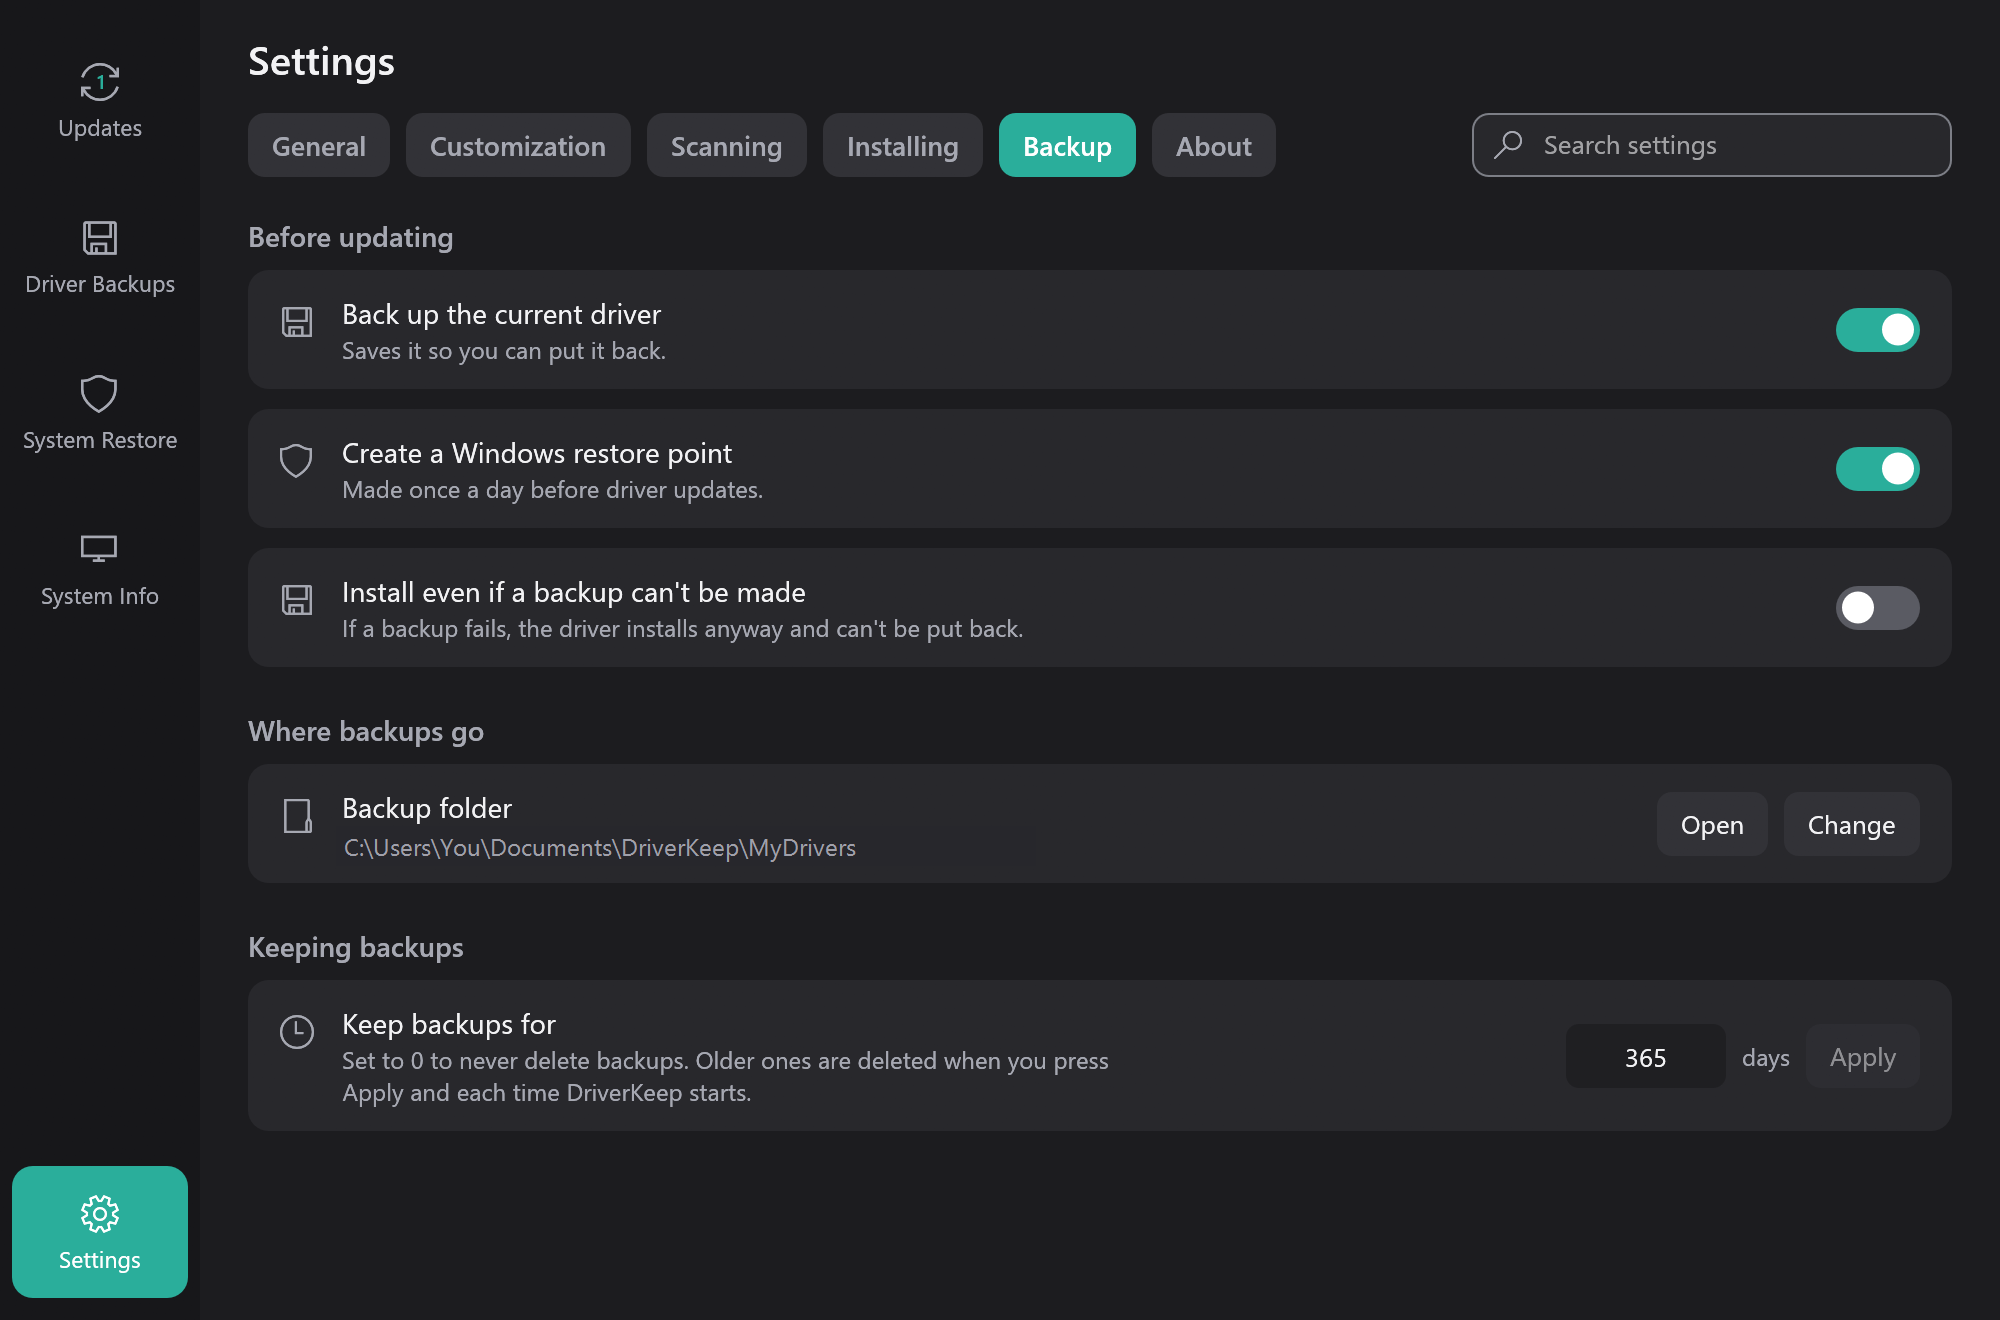
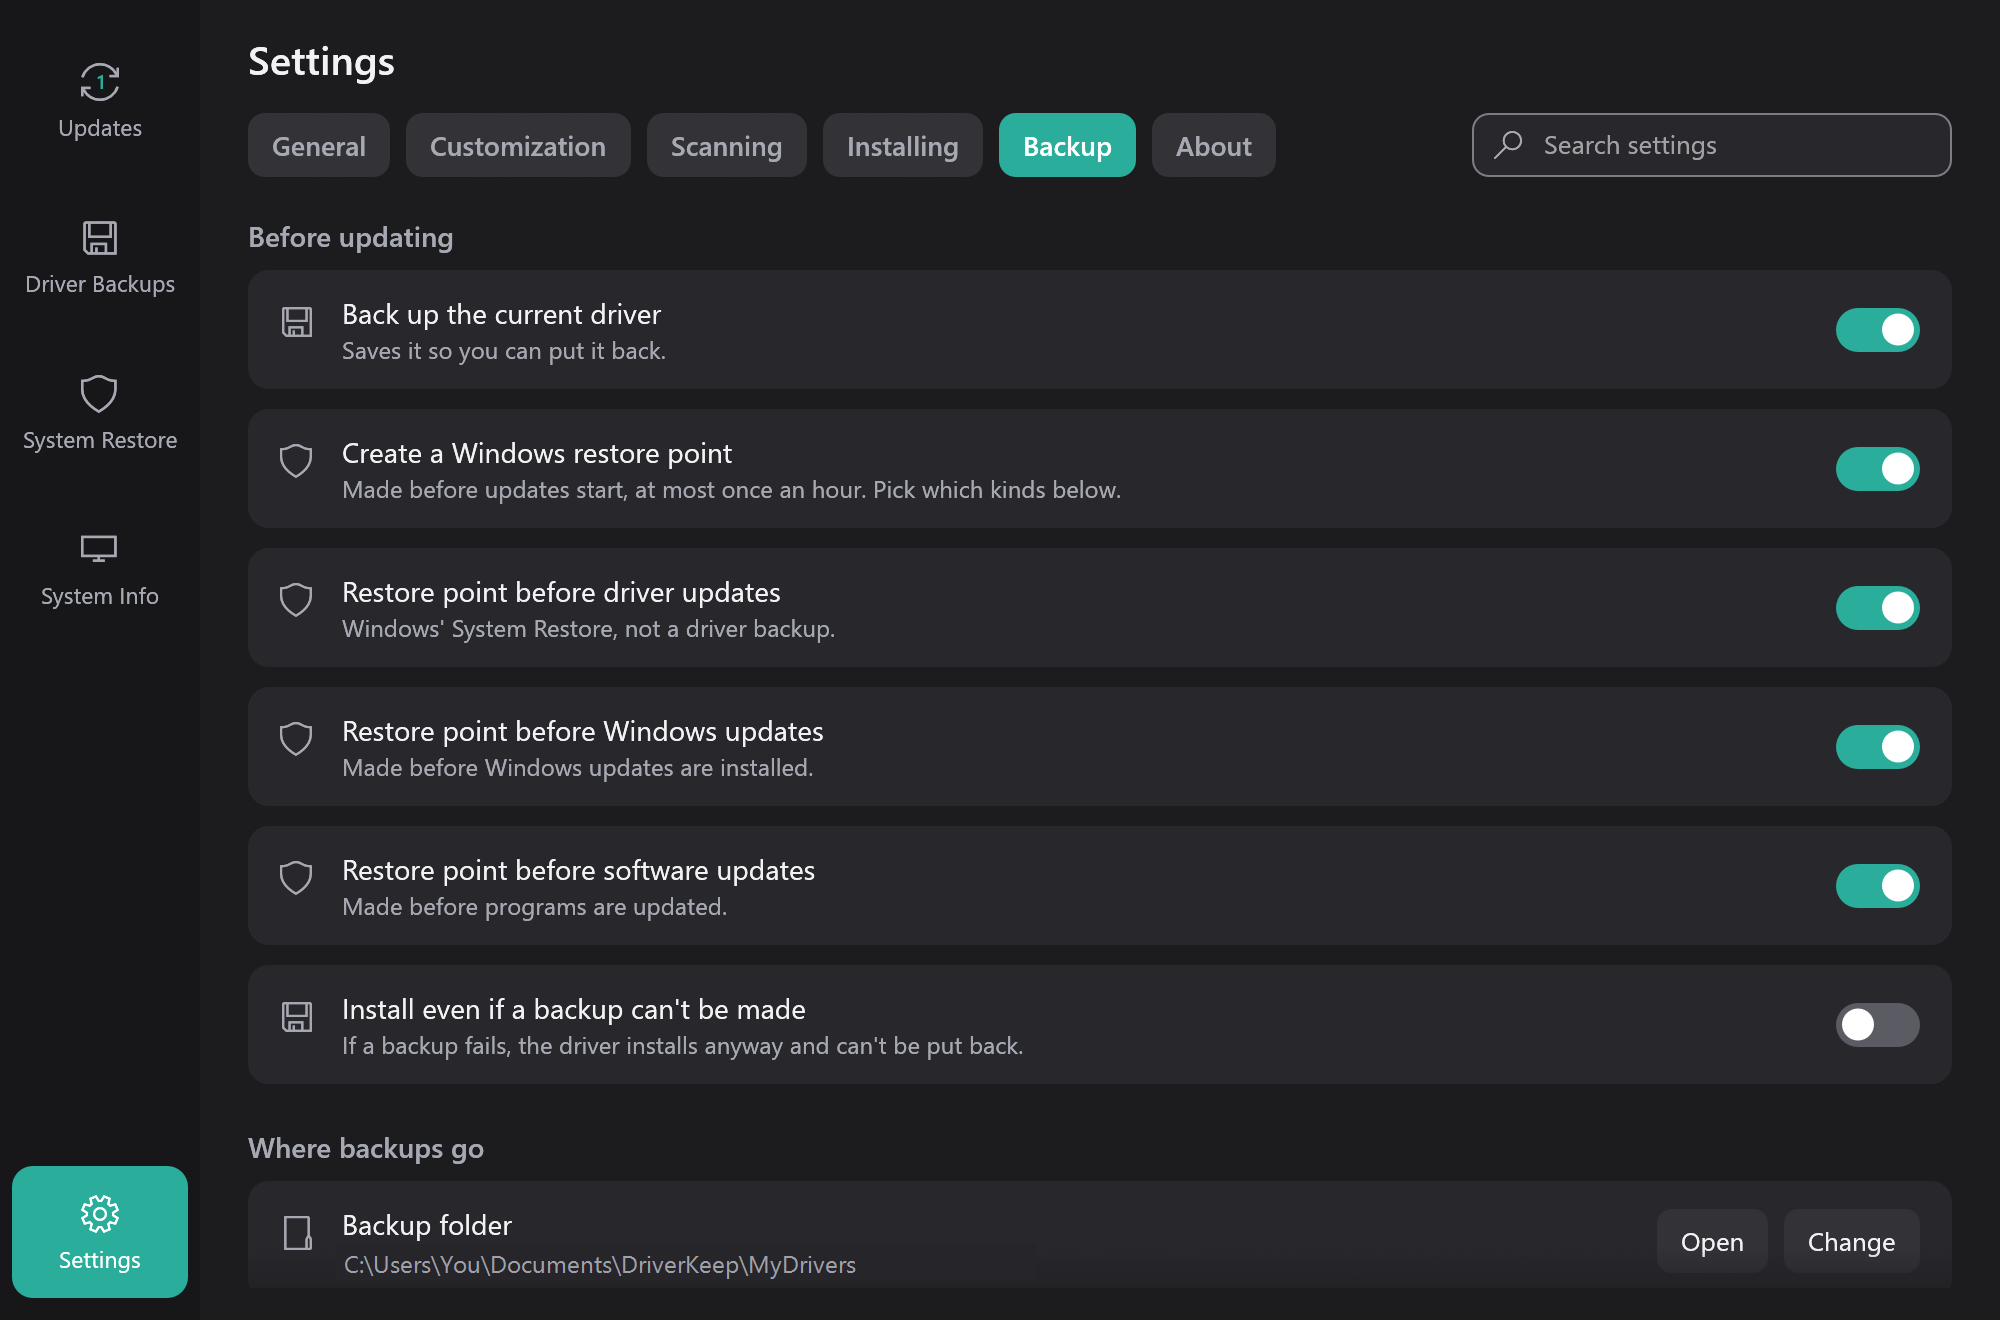
DriverKeep 1.0.24: restore points before all update kinds with toggles, Driver Backups heading, taller calendar days

diff --git a/src/system.rs b/src/system.rs
@@ -506,11 +506,6 @@ pub fn monthly_day(today: u32) -> u32 {
     if today <= 27 { today } else { 1 }
 }
 
-/// The original compares its daily restore point in UTC days.
-pub fn restore_point_day() -> String {
-    chrono::Utc::now().format("%Y%m%d").to_string()
-}
-
 #[derive(Clone, Serialize, Deserialize)]
 #[serde(default)]
 pub struct Settings {
@@ -554,6 +549,12 @@ pub struct Settings {
     pub restart_only_in_hours: bool,
     pub use_catalog: bool,
     pub make_restore_point: bool,
+    /// Which kinds of update get a restore point first (when make_restore_point is on).
+    pub restore_drivers: bool,
+    pub restore_windows: bool,
+    pub restore_software: bool,
+    /// Unix time of the last restore point DriverKeep made, so a run of updates shares one.
+    pub last_restore_point_at: i64,
     pub backup_before_update: bool,
     pub backup_folder: PathBuf,
     /// Backups older than this many days are deleted. 0 keeps them all. New and existing users start at a year.
@@ -608,6 +609,10 @@ impl Default for Settings {
             restart_only_in_hours: true,
             use_catalog: true,
             make_restore_point: true,
+            restore_drivers: true,
+            restore_windows: true,
+            restore_software: true,
+            last_restore_point_at: 0,
             backup_before_update: true,
             backup_folder: default_backup_folder(),
             backup_keep_days: 365,
@@ -662,6 +667,26 @@ impl Settings {
             settings.backup_folder = default_backup_folder();
         }
         settings
+    }
+
+    /// Whether to make a Windows restore point before installing these updates, each given as its kind
+    /// and whether it is DriverKeep's own update (which never needs one). One restore point covers
+    /// everything installed within the next hour, so a run of updates doesn't make a pile of them.
+    pub fn wants_restore_point(&self, updates: &[(crate::wu::Kind, bool)]) -> bool {
+        use crate::wu::Kind;
+        if !self.make_restore_point {
+            return false;
+        }
+        let recent = chrono::Local::now().timestamp() - self.last_restore_point_at < 3600;
+        !recent
+            && updates.iter().any(|(kind, own_app)| {
+                !own_app
+                    && match kind {
+                        Kind::Driver => self.restore_drivers,
+                        Kind::Windows => self.restore_windows,
+                        Kind::Software => self.restore_software,
+                    }
+            })
     }
 
     /// True when a scheduled scan's moment has passed since the last scan.
@@ -777,5 +802,35 @@ mod tests {
         assert!(xml.contains("PT0S"));
         assert!(xml.contains("HighestAvailable"));
         assert!(xml.contains("<DisallowStartIfOnBatteries>false"));
+    }
+}
+
+#[cfg(test)]
+mod restore_point_rule_tests {
+    use super::*;
+    use crate::wu::Kind;
+
+    #[test]
+    fn a_restore_point_is_made_for_each_kind_that_is_switched_on() {
+        let mut s = Settings::default();
+        assert!(s.wants_restore_point(&[(Kind::Driver, false)]));
+        assert!(s.wants_restore_point(&[(Kind::Windows, false)]));
+        assert!(s.wants_restore_point(&[(Kind::Software, false)]));
+        s.restore_software = false;
+        assert!(!s.wants_restore_point(&[(Kind::Software, false)]));
+        // A mixed run still gets one if any of its kinds is switched on.
+        assert!(s.wants_restore_point(&[(Kind::Software, false), (Kind::Driver, false)]));
+    }
+
+    #[test]
+    fn none_for_the_apps_own_update_when_off_or_when_one_was_just_made() {
+        let mut s = Settings::default();
+        assert!(!s.wants_restore_point(&[(Kind::Software, true)]));
+        s.last_restore_point_at = chrono::Local::now().timestamp() - 60;
+        assert!(!s.wants_restore_point(&[(Kind::Driver, false)]));
+        s.last_restore_point_at = chrono::Local::now().timestamp() - 2 * 3600;
+        assert!(s.wants_restore_point(&[(Kind::Driver, false)]));
+        s.make_restore_point = false;
+        assert!(!s.wants_restore_point(&[(Kind::Driver, false)]));
     }
 }

diff --git a/src/ui/settings_page.rs b/src/ui/settings_page.rs
@@ -527,9 +527,20 @@ impl App {
         setting(ui, ICON_BACKUP, "Back up the current driver", "Saves it so you can put it back.", |ui| {
             *changed |= toggle(ui, &mut s.backup_before_update);
         });
-        setting(ui, ICON_SHIELD, "Create a Windows restore point", "Made once a day before driver updates.", |ui| {
+        setting(ui, ICON_SHIELD, "Create a Windows restore point", "Made before updates start, at most once an hour. Pick which kinds below.", |ui| {
             *changed |= toggle(ui, &mut s.make_restore_point);
         });
+        if s.make_restore_point || searching_settings() {
+            setting(ui, ICON_SHIELD, "Restore point before driver updates", "Windows' System Restore, not a driver backup.", |ui| {
+                *changed |= toggle(ui, &mut s.restore_drivers);
+            });
+            setting(ui, ICON_SHIELD, "Restore point before Windows updates", "Made before Windows updates are installed.", |ui| {
+                *changed |= toggle(ui, &mut s.restore_windows);
+            });
+            setting(ui, ICON_SHIELD, "Restore point before software updates", "Made before programs are updated.", |ui| {
+                *changed |= toggle(ui, &mut s.restore_software);
+            });
+        }
         let detail = "If a backup fails, the driver installs anyway and can't be put back.";
         setting(ui, ICON_BACKUP, "Install even if a backup can't be made", detail, |ui| {
             *changed |= toggle(ui, &mut s.install_without_backup);
@@ -730,7 +741,10 @@ const INDEX: &[(SettingsTab, &str, &str, &str)] = &[
     (SettingsTab::Installing, "Restart automatically", "If a driver needs it. You get a 5 minute warning.", "reboot"),
     (SettingsTab::Installing, "Restart only during those hours", "Otherwise it restarts right after installing.", "reboot time window"),
     (SettingsTab::Backup, "Back up the current driver", "Saves it so you can put it back.", "before updating save copy"),
-    (SettingsTab::Backup, "Create a Windows restore point", "Made once a day before driver updates.", "system restore safety"),
+    (SettingsTab::Backup, "Create a Windows restore point", "Made before updates start, at most once an hour.", "system restore safety before updating"),
+    (SettingsTab::Backup, "Restore point before driver updates", "Windows' System Restore, not a driver backup.", "system restore drivers"),
+    (SettingsTab::Backup, "Restore point before Windows updates", "Made before Windows updates are installed.", "system restore windows"),
+    (SettingsTab::Backup, "Restore point before software updates", "Made before programs are updated.", "system restore software programs"),
     (SettingsTab::Backup, "Install even if a backup can't be made", "If a backup fails, the driver installs anyway.", "skip failed"),
     (SettingsTab::Backup, "Backup folder", "Where backups are saved.", "location path directory change open"),
     (SettingsTab::Backup, "Keep backups for", "Set to 0 to never delete backups.", "retention days delete old cleanup expire how long"),

diff --git a/src/ui/backups_page.rs b/src/ui/backups_page.rs
@@ -271,7 +271,7 @@ impl App {
                     ui.spacing_mut().item_spacing.x = 0.0;
                     for column in 0..7 {
                         let slot = week * 7 + column;
-                        let (rect, response) = ui.allocate_exact_size(Vec2::new(cell_w, 88.0), Sense::click());
+                        let (rect, response) = ui.allocate_exact_size(Vec2::new(cell_w, 112.0), Sense::click());
                         if slot < lead || slot >= lead + days_in {
                             continue;
                         }
@@ -326,7 +326,7 @@ impl App {
                                 .fold(0.0, f32::max);
                             let fits = widest + 11.0 <= inner.width() - 20.0;
                             for (row, (kind, text)) in lines.iter().enumerate() {
-                                let y = inner.top() + 40.0 + row as f32 * 17.0;
+                                let y = inner.top() + 44.0 + row as f32 * 22.0;
                                 painter.circle_filled(egui::pos2(inner.left() + 15.5, y), 3.5, kind.color());
                                 let shown = if fits { text.clone() } else { by_kind[kind.index()].to_string() };
                                 painter.text(
@@ -451,7 +451,7 @@ impl App {
         let mut open_folder = false;
         let title = ui
             .horizontal(|ui| {
-                let title = ui.label(RichText::new("Saved backups").font(bold(16.0)));
+                let title = ui.label(RichText::new("Driver Backups").font(bold(16.0)));
                 ui.with_layout(Layout::right_to_left(Align::Center), |ui| {
                     open_folder = secondary(ui, "Open Backup Folder", true);
                 });

diff --git a/src/agent.rs b/src/agent.rs
@@ -256,10 +256,10 @@ fn scan_and_maybe_install(
     if items.is_empty() {
         return false;
     }
-    let today = system::restore_point_day();
-    let restore_point = settings.make_restore_point && settings.last_restore_point_day != today;
+    let kinds: Vec<(Kind, bool)> = items.iter().map(|i| (i.update.kind, i.update.source == Source::GitHub)).collect();
+    let restore_point = settings.wants_restore_point(&kinds);
     if restore_point {
-        settings.last_restore_point_day = today;
+        settings.last_restore_point_at = chrono::Local::now().timestamp();
         settings.save();
     }
     let _ = engine.commands.send(Command::Install(InstallPlan {
@@ -329,10 +329,10 @@ fn install_requested(
         return false;
     }
 
-    let today = system::restore_point_day();
-    let restore_point = settings.make_restore_point && settings.last_restore_point_day != today;
+    let kinds: Vec<(Kind, bool)> = items.iter().map(|i| (i.update.kind, i.update.source == Source::GitHub)).collect();
+    let restore_point = settings.wants_restore_point(&kinds);
     if restore_point {
-        settings.last_restore_point_day = today;
+        settings.last_restore_point_at = chrono::Local::now().timestamp();
         settings.save();
     }
     engine.reset_install();

diff --git a/src/ui.rs b/src/ui.rs
@@ -831,18 +831,16 @@ impl App {
                     .collect(),
             })
             .collect();
-        let today = system::restore_point_day();
-        // Like the original: one restore point a day is enough.
-        let only_this_app = self
+        // A Windows restore point first, for the kinds of update the person chose it for.
+        let kinds: Vec<(Kind, bool)> = self
             .rows
             .iter()
             .filter(|r| ids.contains(&r.update.id))
-            .all(|r| r.update.source == Source::GitHub);
-        let restore_point = self.settings.make_restore_point
-            && self.settings.last_restore_point_day != today
-            && !only_this_app;
+            .map(|r| (r.update.kind, r.update.source == Source::GitHub))
+            .collect();
+        let restore_point = self.settings.wants_restore_point(&kinds);
         if restore_point {
-            self.settings.last_restore_point_day = today;
+            self.settings.last_restore_point_at = chrono::Local::now().timestamp();
             self.settings.save();
         }
         let _ = self.engine.commands.send(Command::Install(InstallPlan {

diff --git a/src/wu.rs b/src/wu.rs
@@ -532,7 +532,7 @@ fn install(
     let mut sequence = None;
     if plan.restore_point {
         status(2, "Creating a Windows restore point".into());
-        let note = match system::begin_restore_point("Before installing driver updates") {
+        let note = match system::begin_restore_point("Before installing updates") {
             RestorePoint::Created(number) => {
                 sequence = Some(number);
                 "Windows restore point created.".to_string()
